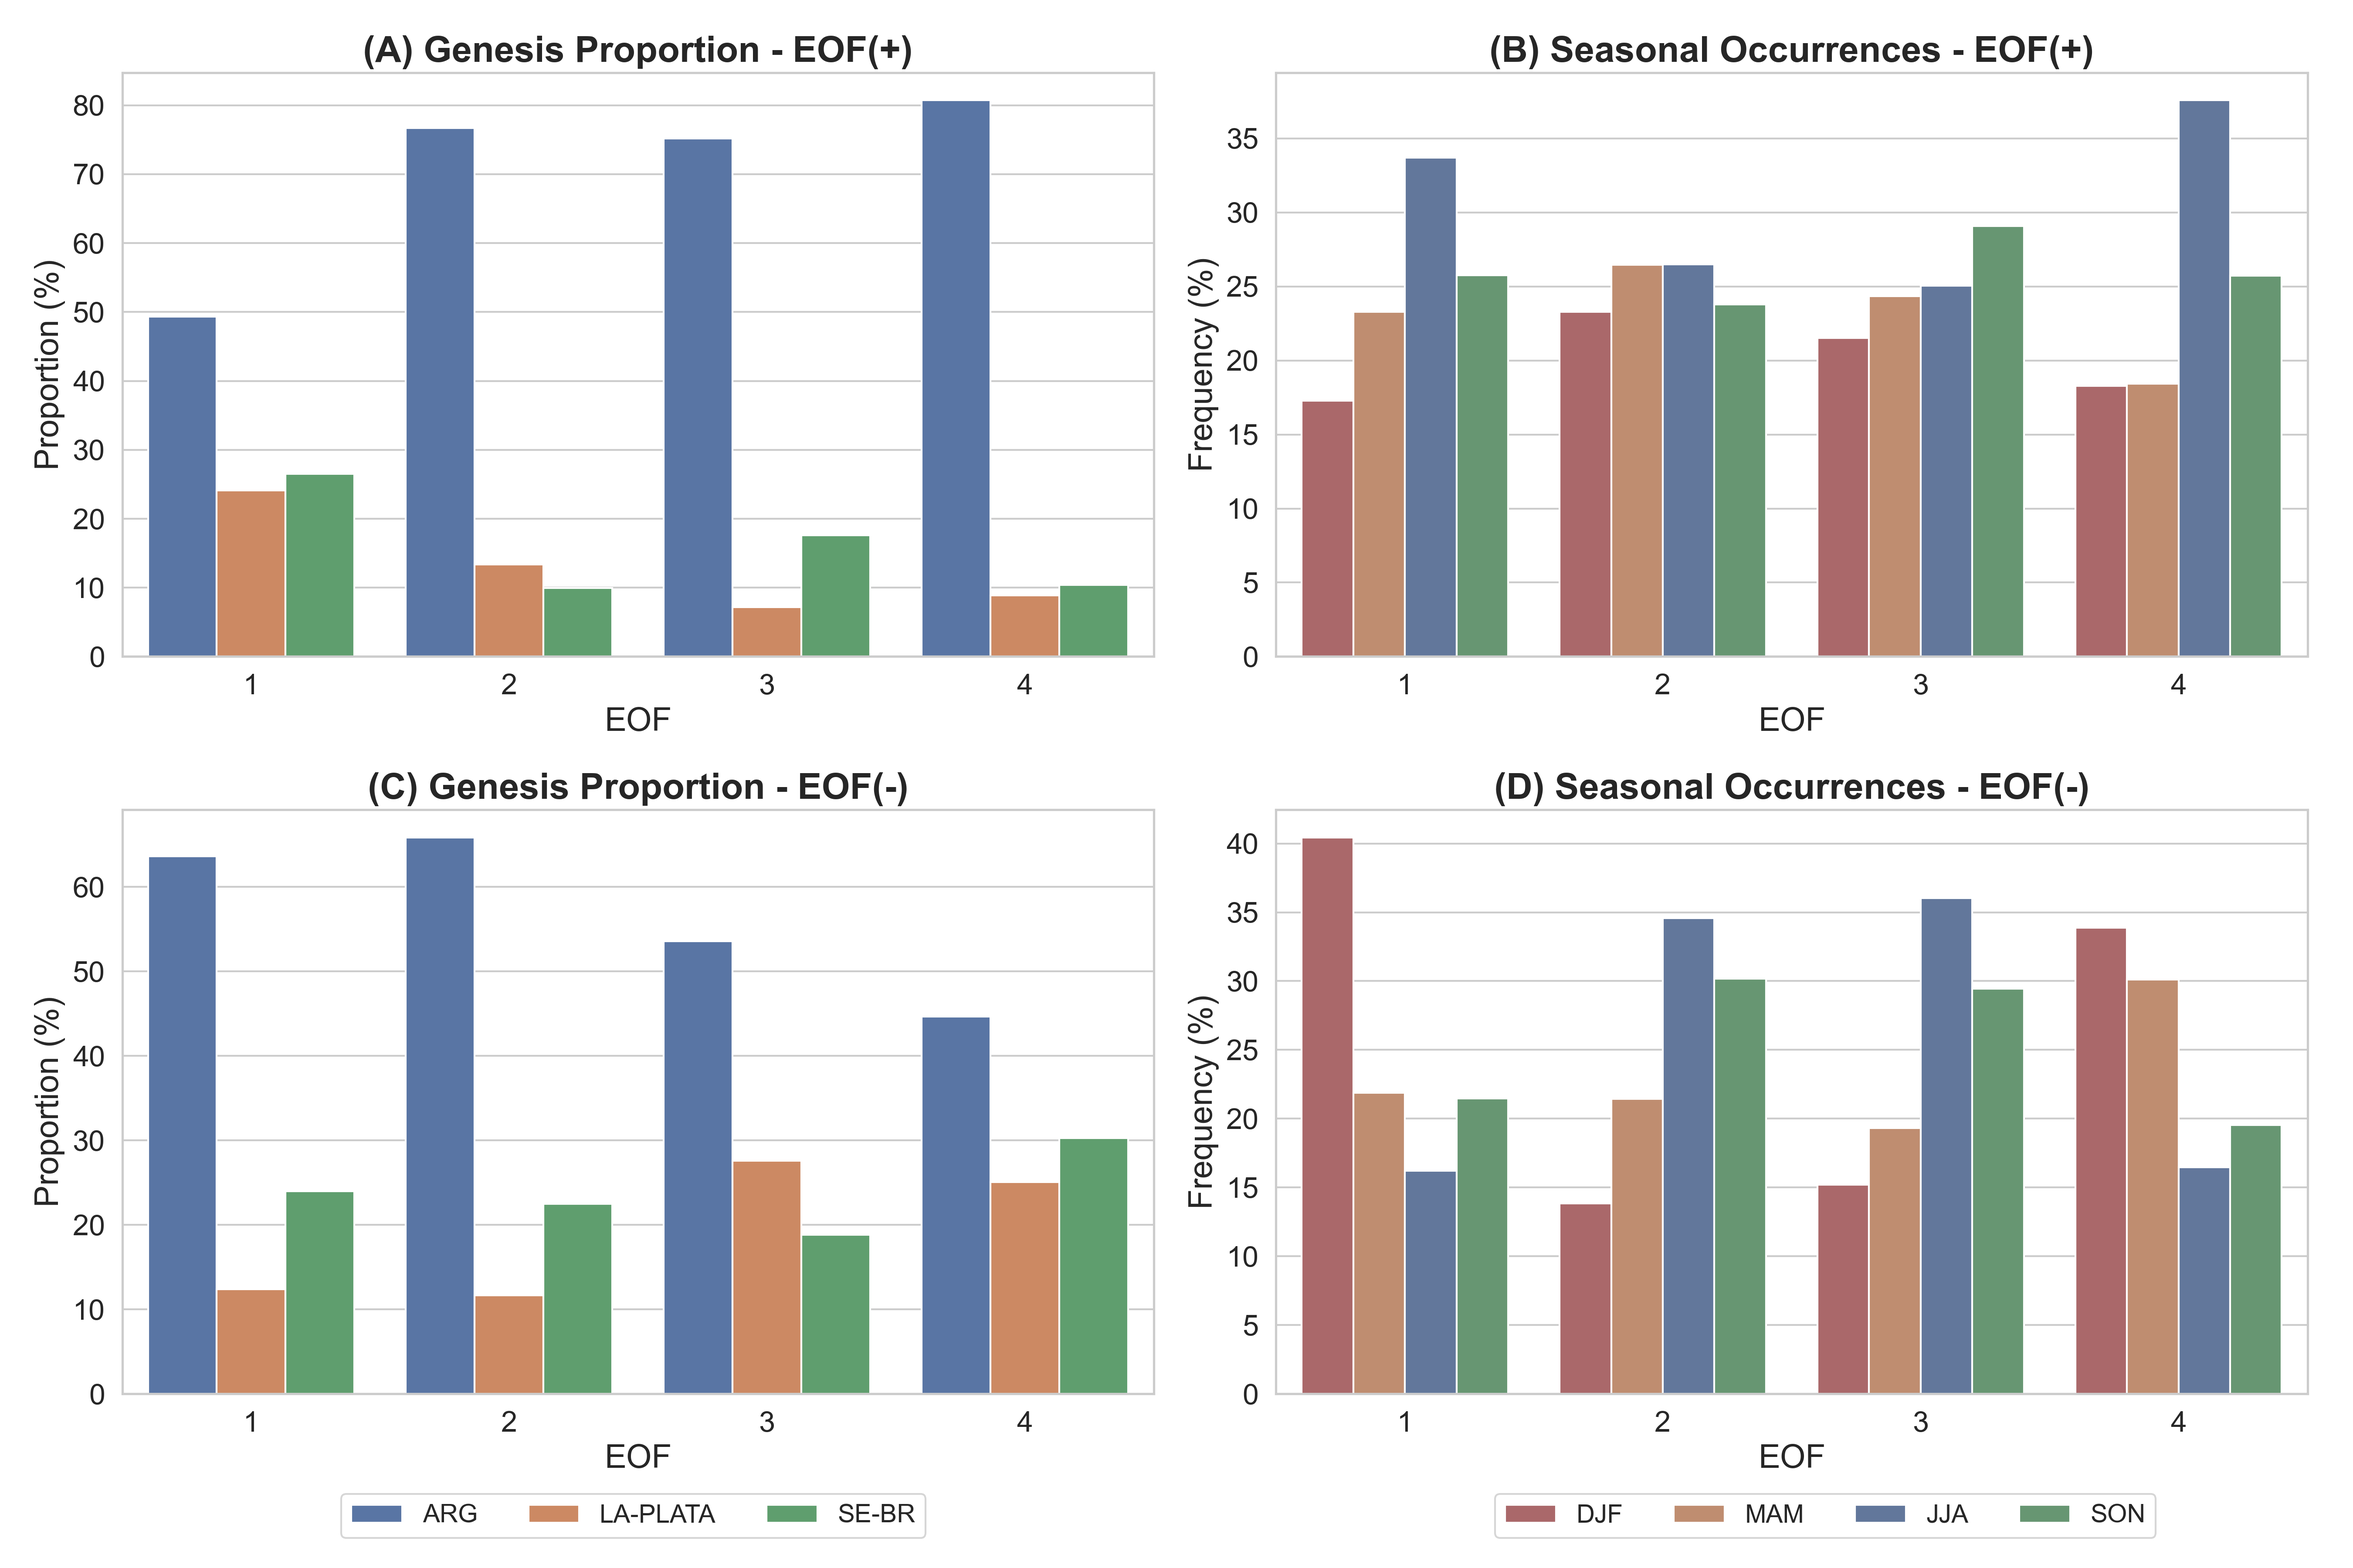
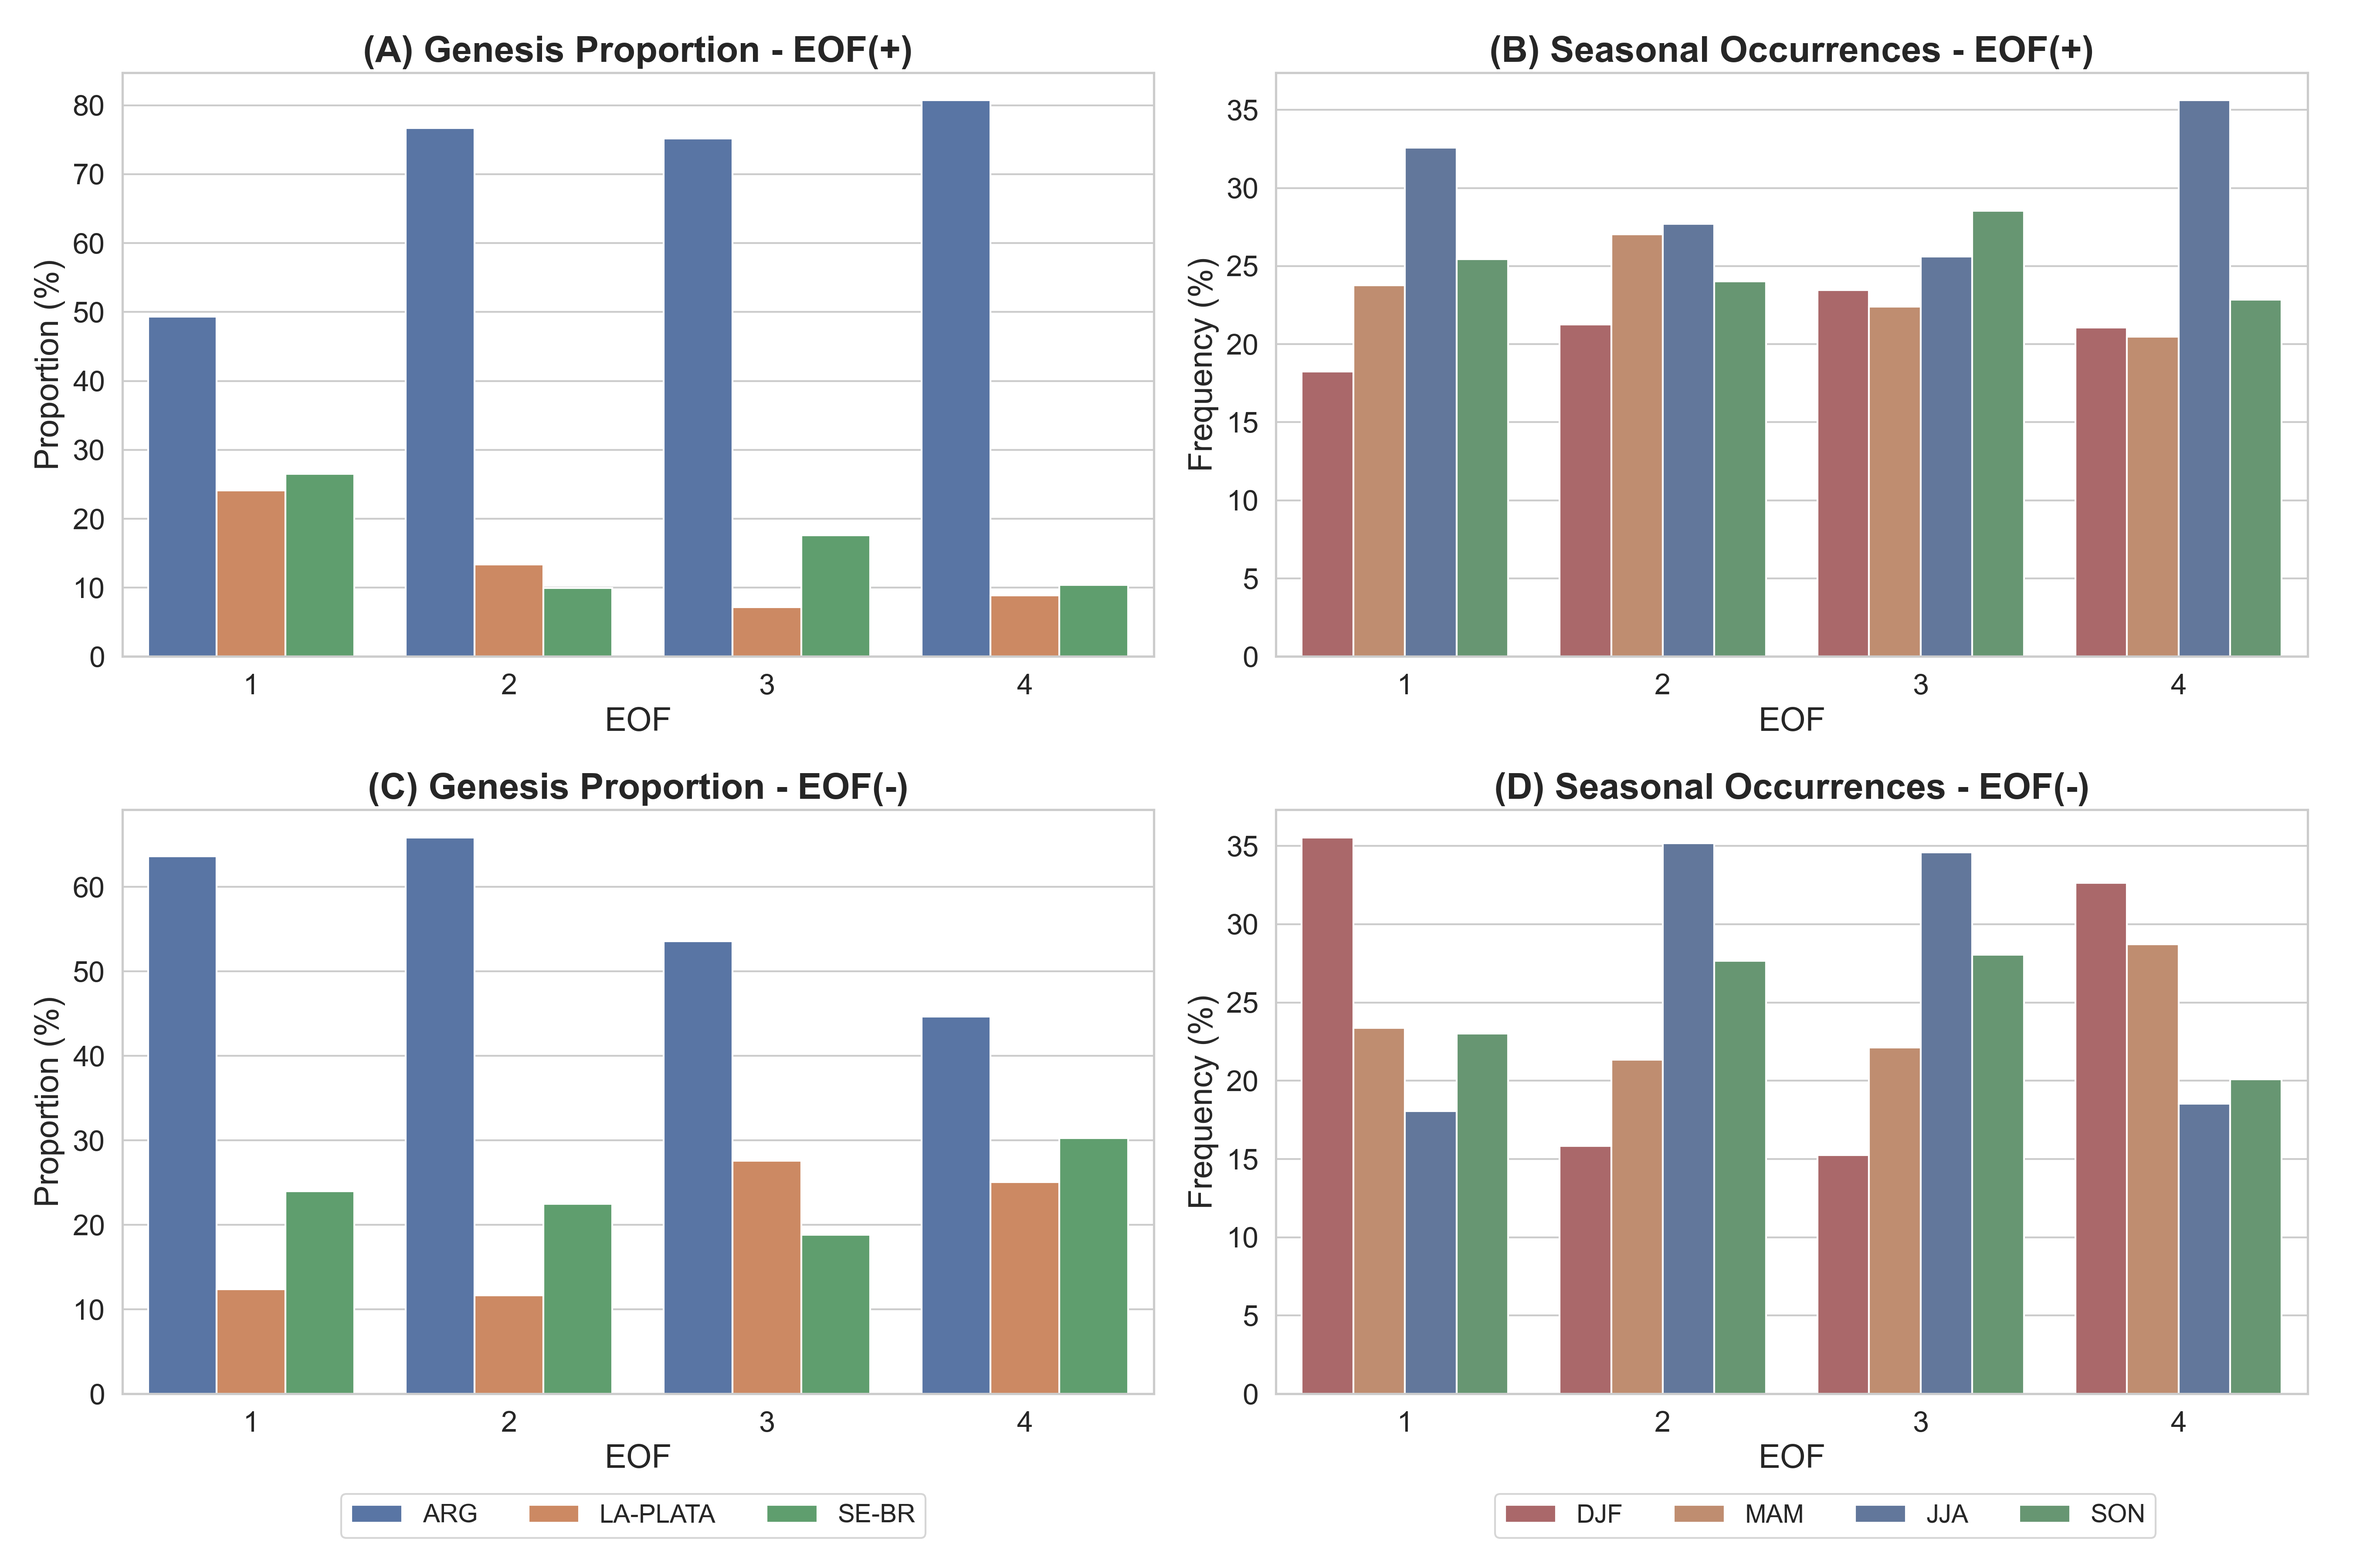
Fixing seasonal counts

diff --git a/manuscript_lec_climatology/eof_cyclone_statistics_q10_q90.py b/manuscript_lec_climatology/eof_cyclone_statistics_q10_q90.py
@@ -69,12 +69,17 @@ for suffix in suffixes:
         elif month in [6, 7, 8]: return 'JJA'
         elif month in [9, 10, 11]: return 'SON'
 
-    merged_data['season'] = merged_data['date'].dt.month.apply(get_season)
-    seasonal_counts = merged_data.groupby(['dominant_eof', 'season']).size().reset_index(name='count')
+
+
+    # Contar ocorrências por EOF e estação considerando apenas a gênese
+    first_occurrence = merged_data.groupby('track_id').first().reset_index()
+    first_occurrence['season'] = first_occurrence['date'].dt.month.apply(get_season)
+    seasonal_counts = first_occurrence.groupby(['dominant_eof', 'season']).size().reset_index(name='count')
     seasonal_counts['season'] = pd.Categorical(seasonal_counts['season'], categories=['DJF', 'MAM', 'JJA', 'SON'], ordered=True)
     total_counts_per_eof = seasonal_counts.groupby('dominant_eof')['count'].sum().reset_index(name='total_count')
     seasonal_counts = seasonal_counts.merge(total_counts_per_eof, on='dominant_eof')
     seasonal_counts['frequency'] = (seasonal_counts['count'] / seasonal_counts['total_count']) * 100
+
 
     # Estatísticas por EOF
     cyclone_stats = merged_data.groupby(['track_id', 'dominant_eof']).agg(
